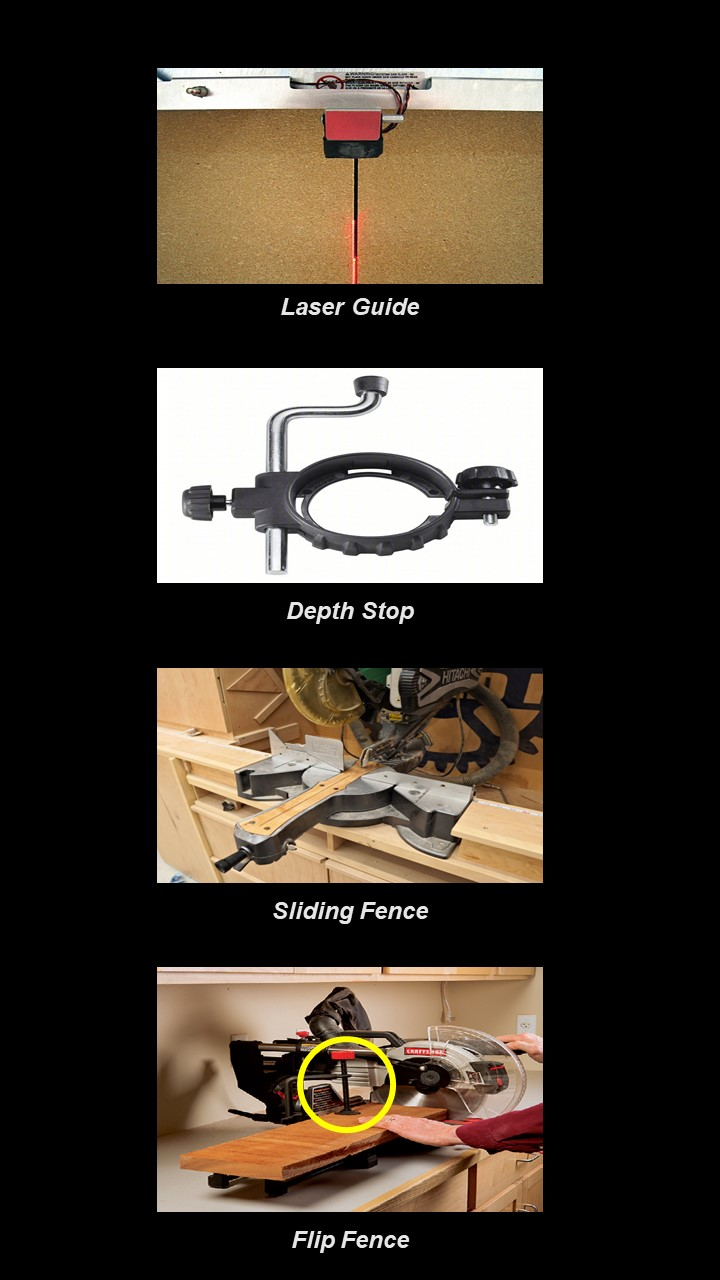
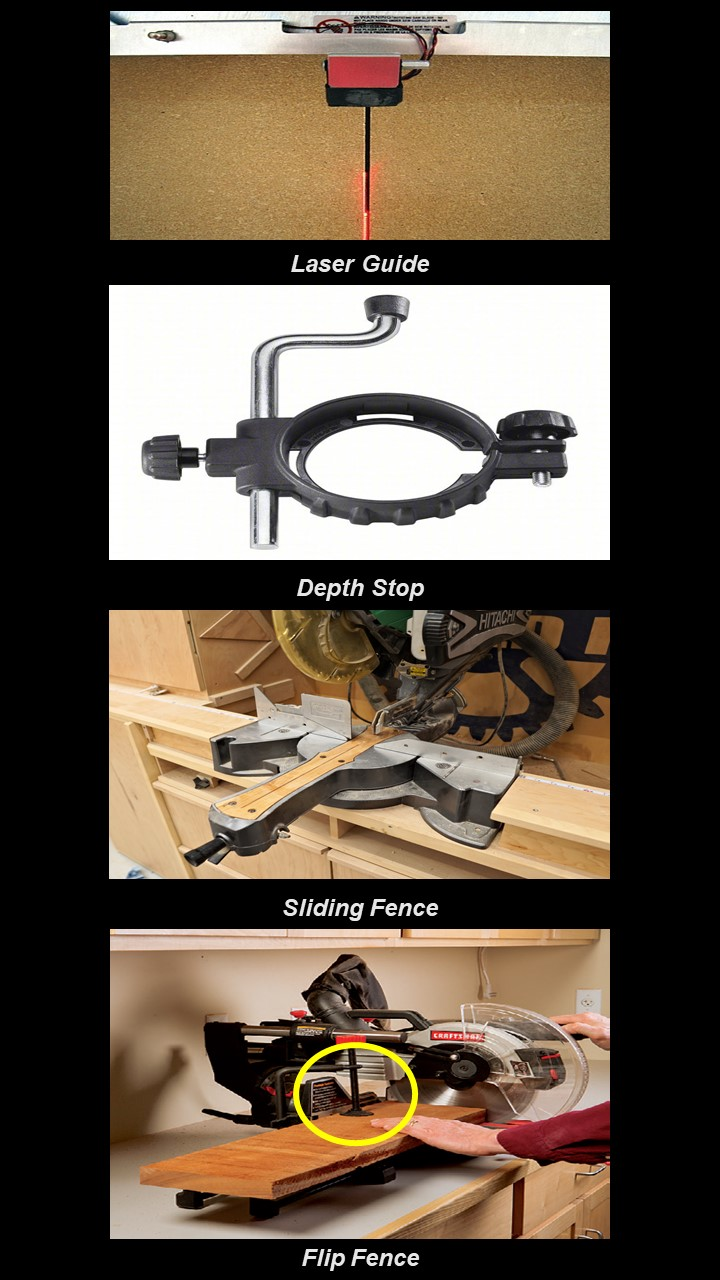
modified pictures and pages

diff --git a/basics2.html b/basics2.html
@@ -24,34 +24,62 @@
 
     <section1>
         <h1>Additional Features</h1>
-       
+        <style>
+            img {
+                float: right;
+            }
+        </style>
+    <img src="addafeatures2.jpg" height="800px" width="400px" alt="picture of laser guide, 
+    depth stop, sliding fence, and flip fence">
+
+    <img src="addafeatures1.jpg" height="800px" width="400px" alt="picture of laser guide, 
+    depth stop, sliding fence, and flip fence">
+              
 
         <p>
-            <font size="6"> <em><strong>Laser Guide-</strong></em> Some miter saws have laser guides that mark a red or green line across the wood where the blade will cut. This is an excellent feature for DIYers and beginners to ensure the board is correctly positioned before cutting.</font>
+            <font size="6"> <em><strong>Laser Guide-</strong></em> Some miter saws have laser 
+                guides that mark a red or green line across the wood where the blade will cut. 
+                This is an excellent feature for DIYers and beginners to ensure the board is 
+                correctly positioned before cutting.</font>
         </p>
 
         <p>
-            <font size="6"> <em><strong>Depth Stop-</strong></em> A miter saw that comes with a depth stop allows the user to set the depth of the cut—similar to a radial arm saw. This allows the user to cut a groove in the material without cutting all the way through.</font>
+            <font size="6"> <em><strong>Depth Stop-</strong></em> A miter saw that comes with a 
+                depth stop allows the user to set the depth of the cut—similar to a radial arm saw. 
+                This allows the user to cut a groove in the material without cutting all the way through.</font>
         </p>
 
         <p>
-            <font size="6"> <em><strong>Sliding Fence-</strong></em> Sliding fences are built into some miter saws, and they pull out on both sides to allow the user to position the material securely along the fence.</font>
+            <font size="6"> <em><strong>Sliding Fence-</strong></em> Sliding fences are built into some miter 
+                saws, and they pull out on both sides to allow the user to position the material securely 
+                along the fence.</font>
         </p>
 
         <p>
-            <font size="6"> <em><strong>Flip Fence-</strong></em> Flip fences come with locking stops, and the user can lock two or more stops on the fence and simply flip them up and out of the way to cut a different length. Flip fences are handy when the user needs to go back and forth between two or more lengths when cutting boards.</font>
+            <font size="6"> <em><strong>Flip Fence-</strong></em> Flip fences come with locking stops, and the 
+                user can lock two or more stops on the fence and simply flip them up and out of the way to cut 
+                a different length. Flip fences are handy when the user needs to go back and forth between two 
+                or more lengths when cutting boards.</font>
         </p>
 
         <p>
-            <font size="6"> <em><strong>Non-slip Grip-</strong></em> Summer days can result in slippery grips on a miter saw handle. Some manufacturers now offer padded nonslip grips to reduce hand fatigue and allow for a better grasp.</font>
+            <font size="6"> <em><strong>Non-slip Grip-</strong></em> Summer days can result in slippery grips 
+                on a miter saw handle. Some manufacturers now offer padded nonslip grips to reduce hand fatigue 
+                and allow for a better grasp.</font>
         </p>
 
         <p>
-            <font size="6"> <em><strong>Dust Collection-</strong></em> Miter saws tend to kick up sawdust, particularly when operated inside a workshop. To remedy this, two types of dust collection are available for miter saws. The first is a small bag designed to collect some of the dust that blows into it naturally as it comes off the blade. The second (and better) option is a dust-collection port that connects to the hose of a shop-type vacuum.</font>
+            <font size="6"> <em><strong>Dust Collection-</strong></em> Miter saws tend to kick up sawdust, 
+                particularly when operated inside a workshop. To remedy this, two types of dust collection 
+                are available for miter saws. The first is a small bag designed to collect some of the dust 
+                that blows into it naturally as it comes off the blade. The second (and better) option is a 
+                dust-collection port that connects to the hose of a shop-type vacuum.</font>
         </p>
 
         <p>
-            <font size="6"> <em><strong>Stand-</strong></em> Many miter saws come with holes that allow the user to bolt them to the workshop table for stability, but a few come with miter saw stands that hold the saw securely when cutting.</font>
+            <font size="6"> <em><strong>Stand-</strong></em> Many miter saws come with holes that allow 
+                the user to bolt them to the workshop table for stability, but a few come with miter saw stands 
+                that hold the saw securely when cutting.</font>
         </p>
 
         </section2>

diff --git a/basics.html b/basics.html
@@ -25,7 +25,7 @@
 
     <section1>
         <h1>Types</h1>
-        <img src="Saw Comparison.jpg" width="900" alt="saw comparison picture">
+        <img src="Saw Comparison.jpg" width="1400" alt="saw comparison picture">
 
         <p>
             <font size="6"> A <em><strong>sliding miter saw</strong></em> is a
